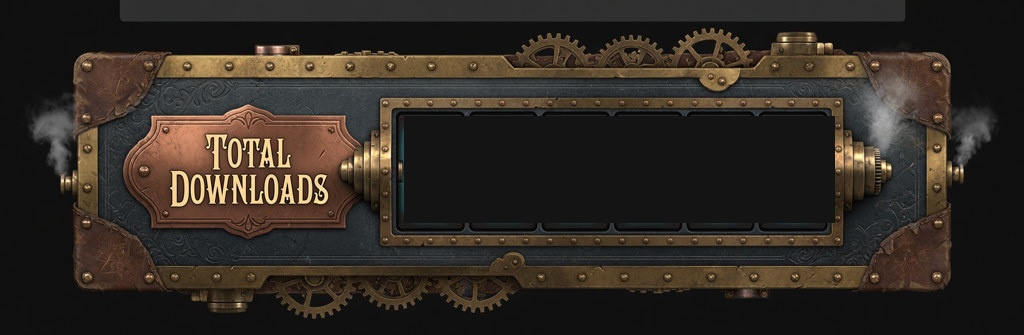
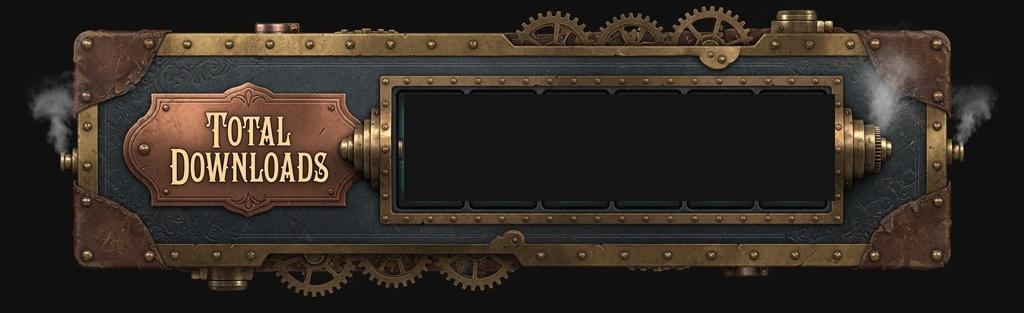
Fix download gauge layout: crop gray bar, inline footer
Remove top artifact from gauge art; place live-count copy left and
Ko-fi link on the same row to the right.

diff --git a/components/TotalDownloadsGauge.tsx b/components/TotalDownloadsGauge.tsx
@@ -57,11 +57,11 @@ export default function TotalDownloadsGauge() {
     >
       <div className={`download-gauge-frame ${ready ? "download-gauge-frame--ready" : ""}`}>
         <img
-          src="/images/total-downloads-gauge.jpg?v=2"
+          src="/images/total-downloads-gauge.jpg?v=3"
           alt=""
           className="download-gauge-art"
           width={1024}
-          height={335}
+          height={313}
           loading="lazy"
           decoding="async"
         />
@@ -81,28 +81,30 @@ export default function TotalDownloadsGauge() {
         </div>
       </div>
 
-      <p className="download-gauge-caption">
-        Live count — every installer pulled from this page since its release July
-        4th 2026.
-      </p>
+      <div className="download-gauge-footer">
+        <p className="download-gauge-caption">
+          Live count — every installer pulled from this page since its release July
+          4th 2026.
+        </p>
 
-      <a
-        href={KOFI_URL}
-        target="_blank"
-        rel="noopener noreferrer"
-        className="download-gauge-kofi"
-      >
-        <img
-          src="/images/ko-fi-icon.png"
-          alt=""
-          width={28}
-          height={28}
-          className="download-gauge-kofi-icon"
-          loading="lazy"
-          decoding="async"
-        />
-        <span>Buy Me a Coffee</span>
-      </a>
+        <a
+          href={KOFI_URL}
+          target="_blank"
+          rel="noopener noreferrer"
+          className="download-gauge-kofi"
+        >
+          <img
+            src="/images/ko-fi-icon.png"
+            alt=""
+            width={28}
+            height={28}
+            className="download-gauge-kofi-icon"
+            loading="lazy"
+            decoding="async"
+          />
+          <span>Buy Me a Coffee</span>
+        </a>
+      </div>
     </div>
   );
 }

diff --git a/app/globals.css b/app/globals.css
@@ -1879,7 +1879,7 @@ body { background: var(--bg); color: var(--text); }
   position: relative;
   display: flex;
   flex-direction: column;
-  align-items: center;
+  align-items: stretch;
   margin: 0 auto;
   max-width: 52rem;
   padding: 0.5rem 0 0.25rem;
@@ -1946,9 +1946,9 @@ body { background: var(--bg); color: var(--text); }
 .download-gauge-display-mask {
   position: absolute;
   left: 39.5%;
-  top: 34.8%;
+  top: 30.2%;
   width: 42%;
-  height: 31.7%;
+  height: 33.9%;
   z-index: 3;
   display: flex;
   align-items: center;
@@ -1998,14 +1998,26 @@ body { background: var(--bg); color: var(--text); }
   }
 }
 
+.download-gauge-footer {
+  display: flex;
+  align-items: center;
+  justify-content: space-between;
+  gap: 1.25rem;
+  width: 100%;
+  margin-top: 0.85rem;
+  padding: 0 0.15rem 0 0;
+}
+
 .download-gauge-caption {
-  margin: 0.85rem auto 0;
-  max-width: 28rem;
-  text-align: center;
+  margin: 0;
+  flex: 1 1 auto;
+  max-width: 36rem;
+  text-align: left;
   font-size: 0.7rem;
   letter-spacing: 0.14em;
   text-transform: uppercase;
   color: var(--text-light);
+  line-height: 1.5;
 }
 
 .download-gauge-kofi {
@@ -2013,8 +2025,9 @@ body { background: var(--bg); color: var(--text); }
   align-items: center;
   justify-content: center;
   gap: 0.55rem;
-  margin: 1.15rem auto 0;
+  margin: 0;
   padding: 0.55rem 1rem;
+  flex-shrink: 0;
   border: 1px solid var(--gear-border);
   border-radius: 999px;
   color: var(--text-muted);
@@ -2041,12 +2054,24 @@ body { background: var(--bg); color: var(--text); }
   flex-shrink: 0;
 }
 
+@media (max-width: 768px) {
+  .download-gauge-footer {
+    flex-direction: column;
+    align-items: flex-start;
+    gap: 0.85rem;
+  }
+
+  .download-gauge-kofi {
+    align-self: flex-end;
+  }
+}
+
 @media (max-width: 640px) {
   .download-gauge-display-mask {
     left: 39.2%;
-    top: 35%;
+    top: 30.5%;
     width: 42.5%;
-    height: 30%;
+    height: 32%;
     padding: 0 1%;
   }
 